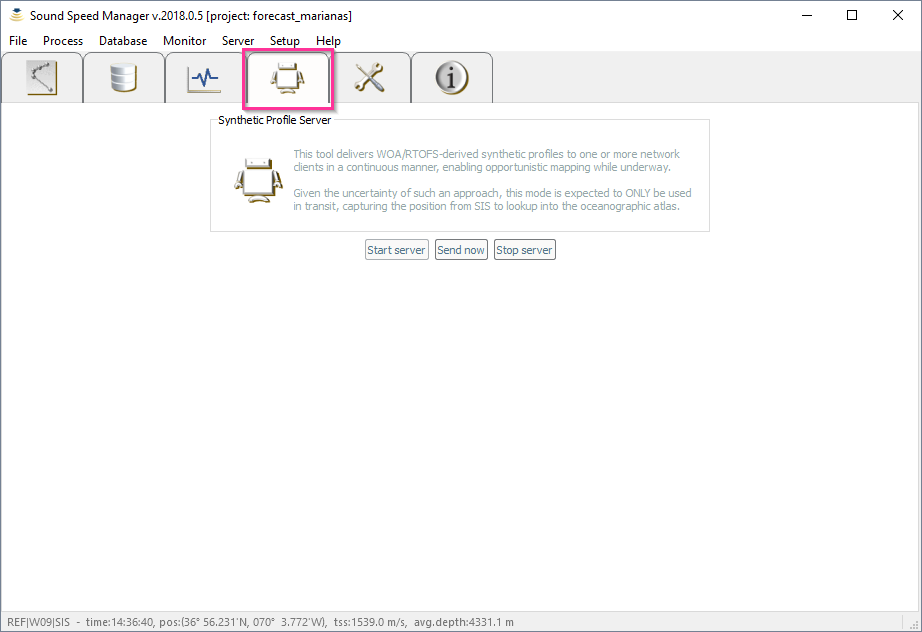
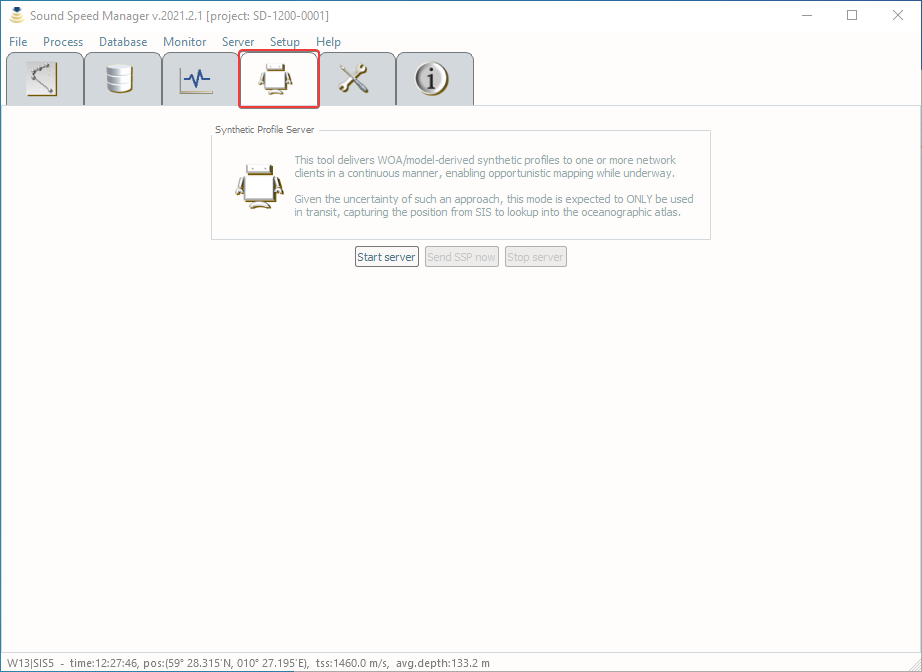
updated Server Mode documentation

diff --git a/docs/user_manual_how_to_use_2_server_mode.rst b/docs/user_manual_how_to_use_2_server_mode.rst
@@ -15,6 +15,9 @@ Given that transit data are usually a lower priority, this mode supports continu
 that are refraction corrected, using the mean temperature and salinity profiles provided by oceanographic models.
 This mode should not be used if SSPs are going to be collected on a regular basis.
 
+.. warning:: The Server Mode is meant for use in transit, NOT for systematic seabed mapping.
+
+
 .. _server_tab0:
 .. figure:: ./_static/server_tab0.png
     :width: 600px
@@ -25,28 +28,91 @@ This mode should not be used if SSPs are going to be collected on a regular basi
 
     The *Synthetic Profile Server* tab provides the controls to manage the *Server* mode.
 
-A preliminary requirement to run the *Server Mode* is that position and surface sound speed are received from *SIS*.
-This can be checked by looking in the status bar.
 
-When this mode is active, all the user’s manual functionalities becomes unavailable until the *Server mode* is stopped.
-The last sent profile is displayed in the view panel and all three plot panels are colored green.
-The mode can be stopped by selecting *Stop* under the *Server* menu (:numref:`server_tab0`). Closing the application will also stop the server.
-To guard against accidentally overwriting a profile that was uploaded by the operator after the server was started,
-this mode verifies with SIS that nothing has been uploaded since the last synthetic cast was delivered.
+Setup
+=====
 
-If the package finds that a profile has been uploaded, either by another program or a person, it will stop serving
-WOA data to SIS and will notify the user.
+To run the *Server Mode*, it is required to have properly set the two-way interaction with *SIS* (both receiving and
+transmitting specific datagrams).
+Based on the SIS version in use, follow the instructions in :ref:`ssm_sis4` or :ref:`ssm_sis5`.
 
-Serving to multiple clients
-===========================
+.. note::
+   When the *SIS* interaction is properly set, the status bar updates with information like the position (*'pos:'*) and
+   the transducer sound speed (*'tss:'*).
 
-.. index:: mode; clients
+The *Setup* tab has the following *Server settings* options that specifically apply to the *Server Mode*:
 
-For installations with multiple clients, the server will deliver the cast sequentially to all clients.
-Failure on transmission to one client will not interfere with other clients.
-Once a client is deemed “dead”, i.e., no reception confirmation is received, no further attempts to send
-to the client are made even if a “dead” client comes back to life (a restart is required).
-If all clients are deemed dead, then the server stops and notifies the user.
+* *Source*. It defines the source used to retrieve the synthetic profile.
+* *Surface sound speed*. If true, the received transducer sound speed is used to enhance the transitted synthetic profile.
+
+Each time that the *Server Mode* is started, a few initialization checks are performed:
+
+* The selected *Source* being currently in use.
+* The reception of navigation and depth datagrams from SIS.
+* Only for SIS clients, the interaction with them (by requesting the sound speed profile in use).
 
 .. note:: *SIS* will accept and rebroadcast SVP datagrams even if it is not pinging. Thus, to make a client appearing “dead” to the server, you must shutdown *SIS*.
 
+If any of these checks fails, an error message is displayed (:numref:`server_checks_error`).
+
+.. _server_checks_error:
+.. figure:: ./_static/server_checks_error.png
+    :width: 500px
+    :align: center
+    :alt: server error message
+    :figclass: align-center
+
+    An example of error message after the failure of one of the initialization checks for the *Server Mode*.
+
+How to use
+==========
+
+The *Server Mode* is activated by clicking on the "Start server" button (:numref:`server_tab0`).
+
+.. note::
+   When the *Server Mode* is active, all the other SSM functionalities becomes unavailable until it is stopped.
+
+During the *Server Mode*:
+
+* The last transmitted profile is displayed in the view panel.
+* The status bar is colored in cyan.
+
+While activated, the *Server Mode* evaluate the need for transmitting a new synthetic profile every 60 seconds.
+
+The evaluation is done following these steps:
+
+* The latest location (with associated timestamp) is retrieved from SIS.
+  If a new navigation datagram is not available, the retrieval is attempted several times for a total time of 60 seconds.
+  In case that such an amount of time is not sufficient, the *Server Mode* is automatically stopped.
+* Based on the retrieved information and the selected source, the indices for retrieving the synthetic profile
+  are calculated. If the location is out of the coverage for the selected source, the *Server Mode* is NOT
+  stopped because the vessel may later enter the area covered by the selected source.
+* If the 'Surface sound speed' option is active, an attempt to retrieve the surface sound speed from SIS is performed.
+* The transmission of a new synthetic profile is decided in case of:
+
+  * A variation of transducer sound speed greater than 1 m/s.
+  * A change of source indices given by the vessel navigation.
+  * The user have clicked the 'Send SSP now' button.
+
+* To guard against accidentally overwriting a profile uploaded by the operator (or by another program) directly into SIS,
+  the *Server Mode* compares the SSP currently on SIS against the latext two transmitted synthetic SSP.
+
+.. note::
+   In case that the SIS and the transmitted profiles differ, the *Server Mode* automatically stops.
+
+* If a new transmission is decided, the synthetic profile is generated.
+
+
+.. index:: mode; clients
+
+In case of multiple clients, the *Server Mode* delivers the cast sequentially to all clients.
+Failure on transmission to one client will not interfere with other clients.
+
+Once a SIS-based client is deemed “dead”, i.e., no reception confirmation is received, no further attempts to send
+to the client are made. Thus, in case that a “dead” SIS-based client comes back to life, a *Server Mode* restart is required.
+
+.. note::
+   If the *Server Mode* is unable to confirm clients, the *Server Mode* automatically stops.
+
+The *Server Mode* can be manually stopped by clicking the *Stop server* button (:numref:`server_tab0`).
+Closing SSM will also stop the server.

diff --git a/docs/app_b_connection_settings.rst b/docs/app_b_connection_settings.rst
@@ -61,53 +61,59 @@ to reduce the data by thinning the profile. Received profiles will use the filen
 Settings for data transmission
 ==============================
 
-The *Sound Speed* package can be configured to transmit data to a number of systems by selecting the *Transmit data* button
-in the *Editor* tab.
+The *Sound Speed* package can be configured to transmit data to a number of systems by selecting the *Transmit data*
+button in the *Editor* tab.
 
 For installations with multiple clients, the *Sound Speed* package will deliver the cast sequentially to all clients.
-Failure on transmission to one client will not interfere with other clients though it will slow down
+Failure on transmission to one client will not interfere with other clients. However, it will slow down
 the transmission sequence through all clients for any clients who are timing out on confirmation of reception
 as the *Sound Speed* package will wait up to the 'RX timeout' value defined in the setup (default: 20 seconds) for confirmation.
 
-.. note:: Server mode will only currently work with the *SIS* transmission protocol.
+.. note:: Server mode will only *currently* work with the *SIS* transmission protocol.
 
 
-Kongsberg SIS
--------------
+.. _sis4:
 
-*SIS* does not require additional configuration to receive sound speed files since it always listens on port 4001
+Kongsberg SIS v4
+----------------
+
+*SIS v4* does not require additional configuration to receive sound speed files since it always listens on port 4001
 for input sound speed data.
 
 The following indications are useful for monitoring reception of sound speed profiles:
 
-* The SSP profile filename will be updated in the Runtime parameters menu in the form: ``YYYYMMDD_HHMMSS.asvp``. The date and time fields are populated based on the time stamp in the profile that was received from the SSP package. In the case of measured casts, this is the time of acquisition, as found in the input file. In the case of synthetic WOA profiles, the date/time is based on the time of transmission of the cast (using the computer clock where the SSP package is installed).
+* The SSP profile filename will be updated in the Runtime parameters menu in the form: ``YYYYMMDD_HHMMSS.asvp``.
+  The date and time fields are populated based on the time stamp in the profile that was received from the SSP package.
+  In the case of measured casts, this is the time of acquisition, as found in the input file.
+  In the case of synthetic WOA profiles, the date/time is based on the time of transmission of the cast
+  (using the computer clock where the SSP package is installed).
 * *SIS* creates several files in the last location from which it loaded a sound speed profile.
 * The SVP display window, if being viewed in *SIS*, will update with the new cast.
 * In the event that a cast is rejected, *SIS* will launch a warning dialog to indicate that the cast it received was rejected.
 
-Although *SIS* will always allow incoming sound speed transmissions, it has several restrictions
+Although *SIS v4* will always allow incoming sound speed transmissions, it has several restrictions
 that must be observed in order for the data to be accepted (see *Kongsberg manual*).
 As this particular transmission protocol is used by other acquisition systems, it is worth describing in detail
 what the *Sound Speed* package does to the cast data to satisfy the input criteria for *SIS*.
 
 The transmission procedure used by the SSP package will format the temperature and salinity profiles
 into the Kongsberg Maritime format. Since the WOA09/RTOFS grids only extend to a maximum depth of 5,500 m,
-the profile undergoes a final extrapolation to a depth of 12,000 m to satisfy *SIS* input criteria,
+the profile undergoes a final extrapolation to a depth of 12,000 m to satisfy *SIS v4* input criteria,
 this is done with temperature and salinity values measured in the Mariana Trench by *Taira et al. (2005)*.
 
-Since *SIS* input profiles have a limit on the maximum allowable number of data points,
+Since *SIS v4* input profiles have a limit on the maximum allowable number of data points,
 the sound speed profile is thinned using a modified version of the Douglas-Peucker line reduction method
 as described by *Beaudoin et al. (2011)*. The algorithm begins with a small tolerance and increases it linearly
 until the number of points in the profile falls below the maximum allowed by *SIS*.
 
-By default, the cast header is formatted to instruct *SIS* to accept the profile for immediate application
+By default, the cast header is formatted to instruct *SIS v4* to accept the profile for immediate application
 without launching the *Kongsberg SVP Editor*. This behavior can be changed through the configuration file
-by setting *Auto apply profile* to *False* (in the *Setup* tab). In this case, *SIS* will accept the cast
-but will then launch its own editor interface and user interaction will be required on the *SIS* computer
+by setting *Auto apply profile* to *False* (in the *Setup* tab). In this case, *SIS v4* will accept the cast
+but will then launch its own editor interface and user interaction will be required on the *SIS v4* computer
 in order to have the cast applied to the multibeam system.
 
-Once the cast has been prepared for transmission, it is sent to *SIS* via UDP transmission over the network.
-If *SIS* receives the profile and accepts it, it will rebroadcast the SVP datagram.
+Once the cast has been prepared for transmission, it is sent to *SIS v4* via UDP transmission over the network.
+If *SIS v4* receives the profile and accepts it, it will rebroadcast the SVP datagram.
 The *Sound Speed* package waits for this rebroadcast to ensure reception of the cast. The profile that was re-broadcasted
 from SIS is compared against that which was sent. If they match, then the transmission is considered successful.
 If there is a discrepancy, or if no rebroadcast profile is received, the user is notified that reception

diff --git a/docs/user_manual_setup_sis_v4.rst b/docs/user_manual_setup_sis_v4.rst
@@ -1,3 +1,5 @@
+.. _ssm_sis4:
+
 Sound Speed Manager - SIS v4 interaction
 ========================================
 

diff --git a/docs/user_manual_setup_sis_v5.rst b/docs/user_manual_setup_sis_v5.rst
@@ -1,3 +1,5 @@
+.. _ssm_sis5:
+
 Sound Speed Manager - SIS v5 interaction
 ========================================
 
